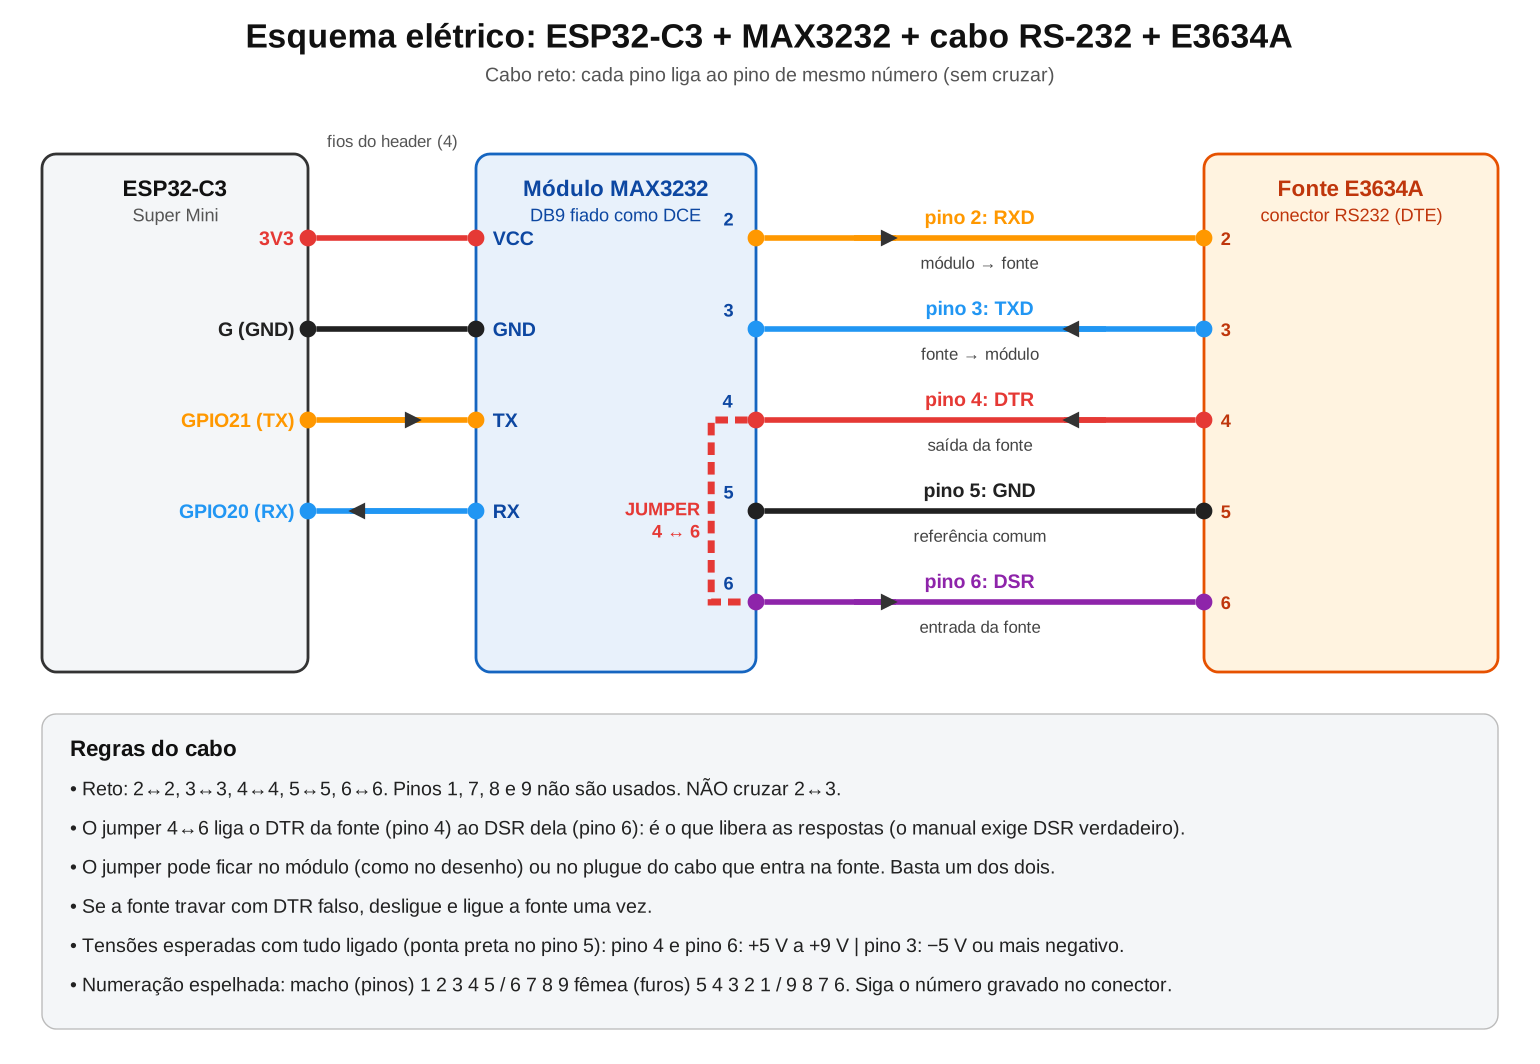
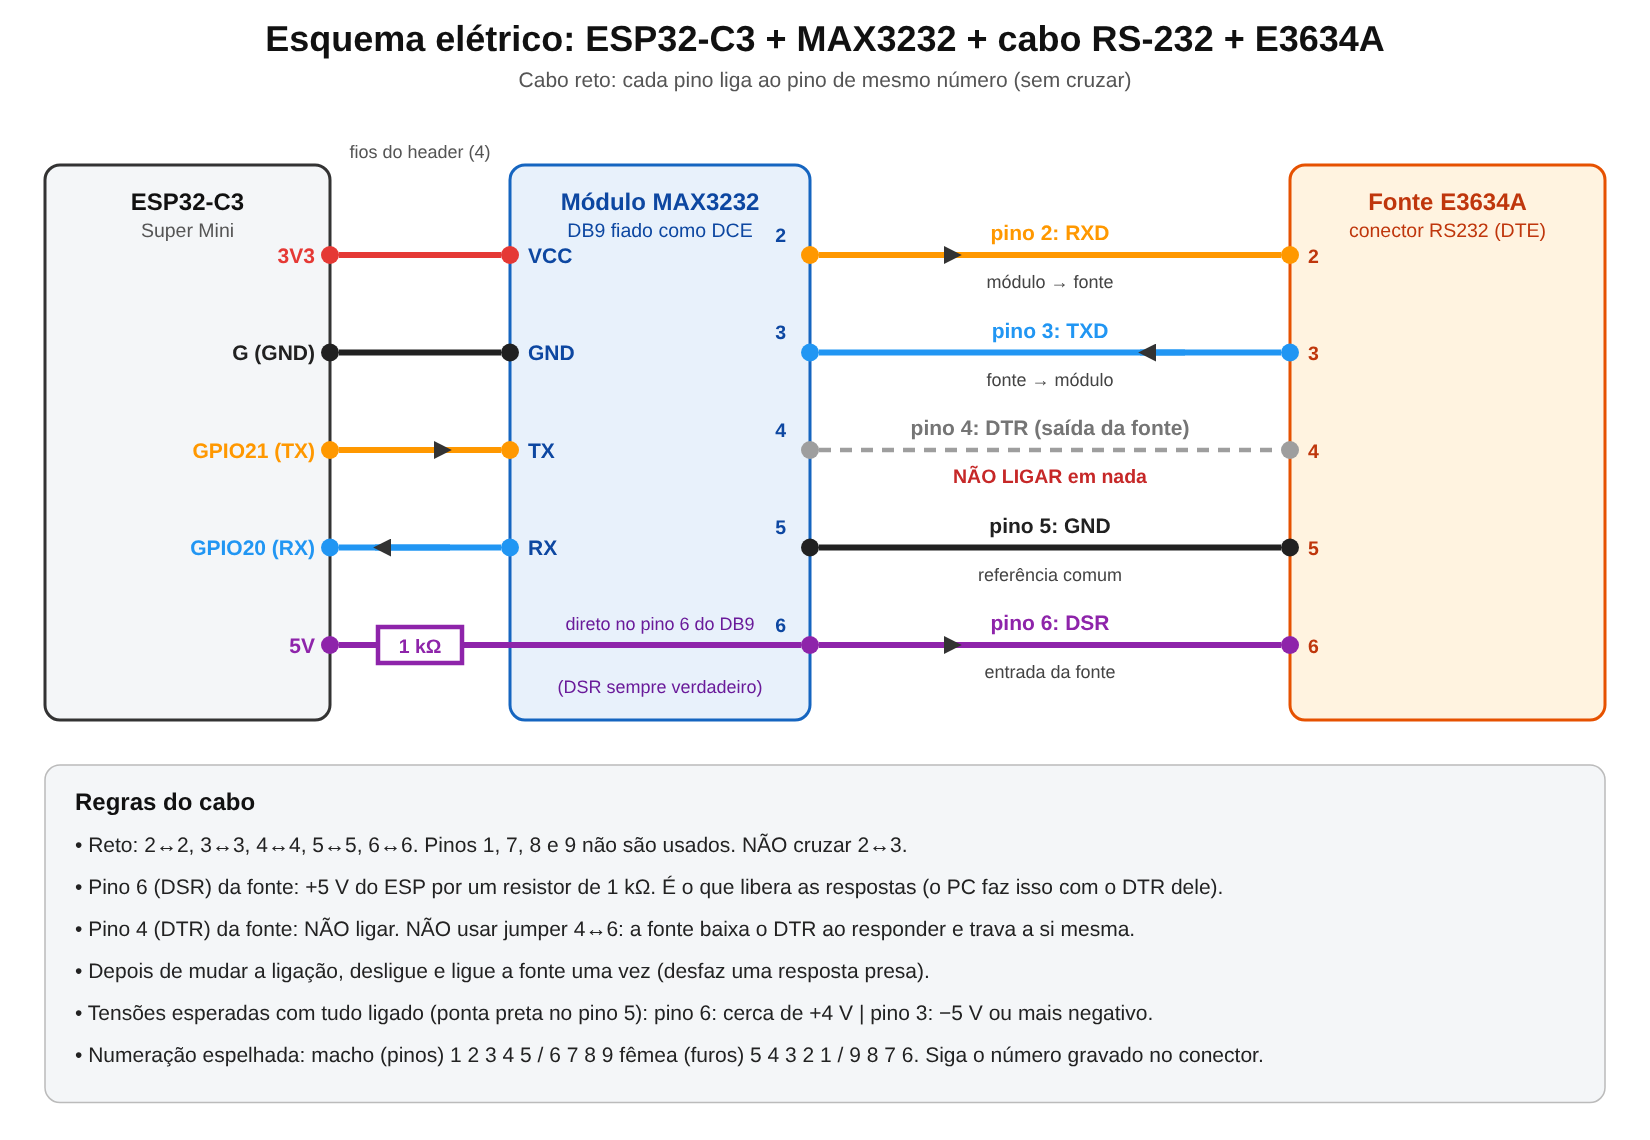
Firmware 1.1.5: remove o jumper 4-6 (trava a fonte ao responder); DSR em +5 V por 1 kOhm
O manual da E363x diz que a fonte poe o DTR em falso quando tem uma resposta
para enviar. Com o jumper 4-6 o DSR cai junto, a saida fica suspensa e cada
query trava: comandos chegam (RMT) e nenhuma resposta volta. O PC nao tem o
problema porque o DSR da fonte vem do DTR do PC.

- esquema e docs: pino 4 solto, pino 6 em +5 V por 1 kOhm
- sessao do Lab Test comeca com <Ctrl-C> para descartar resposta presa
- bytes invalidos na resposta viram LinkError (antes derrubavam o main)

Claude-Session: https://claude.ai/code/session_016zELctfycLz5BDQARTHrR9

diff --git a/firmware/e3634a.py b/firmware/e3634a.py
@@ -4,10 +4,11 @@
 #
 # Comunicacao (conforme o manual da familia E363x):
 #   - a fonte e DTE e usa handshake DTR/DSR (hardware): ela so transmite com o
-#     DSR (pino 6) verdadeiro; para desativar, ligar o DSR a nivel TRUE (jumper
-#     4-6 no DB9). XON/XOFF nao faz parte do protocolo (suporte opcional aqui)
-#   - a fonte segura o DTR em FALSO enquanto a saida esta suspensa; o travamento
-#     (deadlock) se desfaz enviando <Ctrl-C> (0x03), que descarta a saida pendente
+#     DSR (pino 6) verdadeiro. Para desativar: DTR (pino 4) desligado e DSR em
+#     nivel TRUE (+5 V por 1 kOhm). NAO usar jumper 4-6: ao ter uma resposta para
+#     mandar a fonte poe o DTR em FALSO; com o jumper o DSR cai junto e ela trava
+#   - o travamento (deadlock) se desfaz com <Ctrl-C> (0x03), que descarta a
+#     saida pendente; por isso toda sessao comeca com <Ctrl-C>
 #   - por RS-232 e preciso mandar SYST:REM antes dos demais comandos
 #   - escrita termina em "\r\n"; leitura aceita "\n" ou "\r"
 #   - sessao: SYST:REM, *CLS, esvazia SYST:ERR? (max. 20), *IDN?
@@ -142,7 +143,10 @@ class E3634A:
                     break
             if i >= 0:
                 line, self._rx = self._rx[:i], self._rx[i + 1:]
-                s = line.decode().strip(" \x00")
+                try:
+                    s = line.decode().strip(" \x00")
+                except UnicodeError:           # lixo (baud/paridade errados)
+                    raise LinkError("rx invalido " + repr(line[:16]))
                 if not s:                      # sobra do \r\n: ignorar
                     continue
                 self._dbg("<<", s)
@@ -213,7 +217,8 @@ class E3634A:
         sleep_ms(300)                       # porta/fonte estabilizam
         if labtest:
             # sequencia do Lab Test (validada na fonte real): *CLS, esvazia SYST:ERR?,
-            # *IDN?; so depois SYST:REM. Sem <Ctrl-C> e sem SYST:REM antes do *IDN?.
+            # *IDN?; so depois SYST:REM. Antes, <Ctrl-C> descarta resposta presa.
+            self.device_clear()
             self.write("*CLS", check=False)
             self.errors(1200)
             self.idn = self.query("*IDN?", 1200)

diff --git a/tests/test_firmware.py b/tests/test_firmware.py
@@ -96,7 +96,7 @@ class ProtocolTest(unittest.TestCase):
         psu.connect()
         self.assertEqual(sim.log[:4], ["SYST:REM", "*CLS", "SYST:ERR?", "*IDN?"])
 
-    def test_labtest_sequence_has_no_ctrl_c_and_remote_last(self):
+    def test_labtest_sequence_ctrl_c_first_and_remote_last(self):
         sim = SimE3634A()
         raw = []
         orig = sim.write
@@ -104,7 +104,7 @@ class ProtocolTest(unittest.TestCase):
         psu = E3634A(sim, timeout_ms=200)
         self.assertIn("E3634A", psu.connect(labtest=True))
         self.assertEqual(sim.log[:4], ["*CLS", "SYST:ERR?", "*IDN?", "SYST:REM"])
-        self.assertNotIn(b"\x03", b"".join(raw))
+        self.assertEqual(raw[0], b"\x03")            # descarta resposta presa
         self.assertTrue(sim.remote)
 
     def test_activity_callback_tx_and_rx(self):

diff --git a/firmware/config.py b/firmware/config.py
@@ -12,7 +12,8 @@ STOP = 1              # 1 stop bit (a fonte aceita; o diag() testa 2 tambem)
 XONXOFF = True        # igual ao Lab Test (validado na fonte real); inofensivo se a fonte nao usa
 
 # Handshake DTR/DSR: a fonte so transmite com o DSR (pino 6) verdadeiro.
-# Se estes pinos forem None: faca o jumper pino 4 <-> pino 6 no DB9 da fonte (docs/HARDWARE.md)
+# Se estes pinos forem None: pino 6 (DSR) da fonte em +5 V por 1 kOhm e pino 4 (DTR) solto.
+# NAO use jumper 4-6: a fonte trava ao responder (docs/HARDWARE.md)
 DTR_IN_PIN = None     # GPIO que le o DTR da fonte (R2OUT) - fonte pronta p/ receber
 DSR_OUT_PIN = None    # GPIO que aciona o DSR da fonte (T2IN) - ESP pronto p/ receber
 

diff --git a/firmware/selftest.py b/firmware/selftest.py
@@ -118,8 +118,8 @@ def probe(bauds=(9600, 19200, 4800, 2400, 1200), stops=(1, 2)):
                     print("\nACHOU: ajuste config.py -> UART_TX=%d UART_RX=%d BAUD=%d STOP=%d"
                           % (tx, rx, baud, stop))
                     return tx, rx, baud, stop
-    print("\nSem resposta. Verifique: jumper 4-6 na fonte, cabo null-modem "
-          "(2<->3 cruzado), e se a fonte esta em RS-232 (nao HPIB).")
+    print("\nSem resposta. Verifique: pino 6 (DSR) em +5 V por 1 kOhm, pino 4 solto (sem "
+          "jumper 4-6), fonte religada e em RS-232 (nao HPIB).")
     return None
 
 

diff --git a/tools/pc_bench.py b/tools/pc_bench.py
@@ -71,7 +71,7 @@ def main():
         print("Conectado:", psu.connect())
     except LinkError as e:
         print("Sem resposta da fonte (%s). Verifique baud, TX/RX cruzado, "
-              "GND e jumper DTR-DSR (pinos 4-6)." % e)
+              "GND e o DSR (pino 6) verdadeiro." % e)
         return 1
 
     while True:

diff --git a/firmware/bridge.py b/firmware/bridge.py
@@ -11,7 +11,7 @@ except ImportError:
     from e3634a import ticks_ms, ticks_diff
 
 
-FW_VERSION = "1.1.4"   # sobe a cada mudanca de firmware; aparece no app
+FW_VERSION = "1.1.5"   # sobe a cada mudanca de firmware; aparece no app
 
 
 class CmdError(Exception):

diff --git a/docs/HARDWARE.md b/docs/HARDWARE.md
@@ -19,8 +19,8 @@
   superior (lado oposto ao 5V); `3V3`, `G` e `5V` ficam juntos junto ao USB-C.
 - **Módulo RS-232 azul** (U1 de 16 pinos, capacitores C1–C5, LED D1, DB9 "9P"):
   header de 4 pinos **GND, TX, RX, VCC** — só o canal 1 (T1/R1). Não existe
-  DTR/DSR no módulo, então `DTR_IN_PIN`/`DSR_OUT_PIN` ficam `None` e o
-  **jumper 4↔6 vai no conector do lado da fonte**.
+  DTR/DSR no módulo, então `DTR_IN_PIN`/`DSR_OUT_PIN` ficam `None`, o
+  **pino 6 (DSR) recebe +5 V por 1 kΩ** e o **pino 4 (DTR) fica solto**.
 
 | Módulo | Super Mini |
 |---|---|
@@ -28,6 +28,7 @@
 | GND | G |
 | TX | GPIO21 |
 | RX | GPIO20 |
+| pino 6 do DB9 (DSR) | **5V por resistor de 1 kΩ** |
 
 A rotulagem TX/RX desses módulos varia. Não adivinhe: rode o autoteste
 (`selftest.loopback()`, abaixo) e ele diz se precisa inverter os dois fios.
@@ -42,8 +43,7 @@ A rotulagem TX/RX desses módulos varia. Não adivinhe: rode o autoteste
    entre as duas pontas o cabo precisa ser **null-modem (cruzado)**: 2↔3 e 5↔5.
    Um cabo reto/extensor não funciona. Se os gêneros dos conectores não
    encaixam, use um adaptador de gênero ou faça um cabo curto.
-3. **Jumper 4↔6 no conector da fonte** (ver abaixo). O módulo só leva os pinos
-   2, 3 e 5.
+3. **Pino 6 em +5 V por 1 kΩ, pino 4 solto, sem jumper 4↔6** (ver abaixo).
 
 ### Diagnóstico automático da serial
 
@@ -78,11 +78,12 @@ significa que nada chega ao pino (DSR, fio do pino 3, módulo, fonte travada).
    selftest.loopback()
    ```
    Deve imprimir `OK` para um dos sentidos e dizer se há fios invertidos.
-2. Ligue ao cabo null-modem com o jumper 4–6 na ponta da fonte, fonte em
+2. Ligue o cabo com o pino 6 em +5 V (1 kΩ) e o pino 4 solto, fonte em
    `RS-232 / 9600 / NONE 8 BITS`, e rode `selftest.probe()`. Ele varre
    baud/stop-bits/sentido até a fonte responder ao `*IDN?` e imprime os valores
    para o `config.py`.
-3. Só então rode o `main.py` e use o app.
+3. Ou rode `selftest.labtest()`, que repete a abertura do Lab Test.
+4. Só então rode o `main.py` e use o app.
 
 ## Configuração RS-232 na fonte (painel frontal)
 
@@ -104,9 +105,9 @@ A fonte salva isso em memória não volátil.
  │ GPIO21 (TX) ─┼────────────┤ T1IN   T1OUT ─┼────────────┤ 2  RXD  (entrada da fonte)│
  │ GPIO20 (RX) ─┼────────────┤ R1OUT  R1IN  ─┼────────────┤ 3  TXD  (saída da fonte)  │
  │              │            └───────────────┘            │                           │
- │ GPIO8 = LED  │                                ┌────────┤ 4  DTR  (saída)           │
- └──────────────┘                     jumper ─── │        │                           │
-                                                 └────────┤ 6  DSR  (entrada)         │
+ │ GPIO8 = LED  │                             (solto) ┤ 4  DTR  (saída)           │
+ │ 5V ──[1 kΩ]──┼─────────────────────────────────────────┤ 6  DSR  (entrada)         │
+ └──────────────┘                                         │                           │
                                                           └───────────────────────────┘
 ```
 
@@ -127,22 +128,32 @@ fabricante neste ambiente**, então confira na seção *RS-232 Interface* do gui
   Even 7 bits;
 - o cabo que acompanha a fonte é 9 pinos fêmea ↔ fêmea (cruzado, para ligar a um PC).
 
+O manual também diz quando a fonte põe o **DTR em falso**:
+
+- quando o buffer de entrada enche (≈100 caracteres);
+- **quando ela tem uma resposta para mandar** (processou uma query e recebeu o `<new line>`);
+  ela volta a pôr o DTR em verdadeiro só depois de enviar a resposta.
+
 Consequências no projeto:
 
 1. **Sem DSR verdadeiro a fonte aceita comandos (o display mostra `RMT`) mas nunca responde.**
    É o sintoma que vimos (`timeout rx=vazio`).
-2. O módulo MAX3232 de 4 pinos não tem DTR/DSR, então o DSR precisa ser ligado ao TRUE da
-   própria fonte: **jumper do pino 4 ao pino 6**, no conector do lado da fonte.
-3. Com esse jumper, se a fonte já estiver travada (DTR falso), o DSR fica falso também.
-   Por isso o firmware envia **`<Ctrl-C>` no início de cada sessão** (`device_clear()`); e,
-   depois de pôr o jumper, **desligue e ligue a fonte** uma vez.
-4. O firmware abre a sessão com `<Ctrl-C>`, `SYST:REM`, `*CLS`, esvazia `SYST:ERR?` (a fila vazia
-   evita o beep) e só então `*IDN?`; comandos terminam em `\r\n`.
-5. XON/XOFF não faz parte do protocolo da fonte (`XONXOFF = False`).
-6. O cabo precisa levar os pinos 2, 3, 5 **e 4 e 6**. Cabo de 3 fios não serve para o jumper no
-   módulo.
+2. **O jumper 4↔6 causa exatamente isso.** Com ele, o DSR copia o DTR da própria fonte. Ao ter
+   uma resposta pronta ela põe o DTR em falso, o DSR cai junto, a saída fica suspensa e o DTR
+   continua falso: travamento a cada query. Comandos sem resposta (`SYST:REM`) funcionam; queries
+   não. Os comandos seguintes ainda geram erro (`-410 Query INTERRUPTED`) e a fonte apita.
+   No PC isso não acontece porque o DSR da fonte vem do DTR do PC, que fica sempre verdadeiro.
+3. Ligação correta com o módulo de 4 pinos: **pino 4 solto** e **pino 6 em +5 V por 1 kΩ**
+   (do pad `5V` do ESP). A entrada DSR tem ~5 kΩ, então o pino 6 fica em cerca de +4 V, nível
+   verdadeiro. 3,3 V fica no limite do receptor RS-232; use os 5 V.
+4. O firmware abre a sessão com `<Ctrl-C>` (descarta uma resposta presa), `*CLS`, esvazia
+   `SYST:ERR?`, `*IDN?` e só então `SYST:REM`, como o Lab Test; comandos terminam em `\r\n`.
+5. O manual sugere baud menor (300/600/1200) com o handshake desligado, para não estourar o
+   buffer de entrada. Os comandos do firmware são curtos e cada query espera a resposta, então
+   9600 deve servir; se aparecer `-363` (overrun) na fila de erros, use 1200 na fonte e no `config.py`.
+6. Depois de mudar a ligação, **desligue e ligue a fonte** uma vez.
 7. Para conferir: com a fonte ligada e o cabo conectado, meça entre o pino 5 e o pino 6 no DB9 da
-   fonte. **+5 V a +9 V** = DSR verdadeiro.
+   fonte: **cerca de +4 V** = DSR verdadeiro.
 
 ### Opcional: handshake completo com o 2º canal do MAX3232
 
@@ -169,8 +180,8 @@ fabricante. A E3634A é **DTE**. A regra que não falha:
    negativa no mesmo pino, são duas saídas se enfrentando → inverta 2↔3.
 
 O mais seguro é ignorar o DB9 do módulo e montar um cabo curto com um
-**DB9 fêmea de solda**: pinos 2, 3, 5 até o módulo + jumper 4–6 no próprio
-conector.
+**DB9 fêmea de solda**: pinos 2, 3, 5 até o módulo, pino 6 em +5 V por 1 kΩ e
+pino 4 solto.
 
 ## Alimentação
 

diff --git a/README.md b/README.md
@@ -33,7 +33,7 @@ por **Bluetooth LE**, usando um **ESP32-C3 Super Mini** (MicroPython) como ponte
 | [`android/`](android) | App Android (Kotlin + Jetpack Compose, minSdk 26) |
 | [`tests/`](tests) | Simulador da E3634A e testes do firmware (rodam no PC) |
 | [`tools/pc_bench.py`](tools/pc_bench.py) | Terminal SCPI no PC via USB-RS232 (valida cabo/config sem ESP32) |
-| [`docs/HARDWARE.md`](docs/HARDWARE.md) | Ligações, jumper DTR/DSR, config da fonte |
+| [`docs/HARDWARE.md`](docs/HARDWARE.md) | Ligações, DSR, config da fonte |
 | [`docs/PROTOCOLO.md`](docs/PROTOCOLO.md) | Protocolo JSON BLE completo |
 
 ## 1. Hardware
@@ -43,7 +43,7 @@ Veja **[docs/HARDWARE.md](docs/HARDWARE.md)**. Resumo:
 - GPIO21 (TX) → MAX3232 T1IN → pino **2** da fonte
 - GPIO20 (RX) ← MAX3232 R1OUT ← pino **3** da fonte
 - GND ↔ pino **5**; MAX3232 alimentado em **3,3 V**
-- **Jumper pino 4 ↔ pino 6** (necessário: a fonte usa handshake DTR/DSR e só responde com o DSR verdadeiro — ver [docs/HARDWARE.md](docs/HARDWARE.md))
+- **Pino 6 (DSR) em +5 V por 1 kΩ** e **pino 4 (DTR) solto**: a fonte só responde com o DSR verdadeiro. **Não** use jumper 4↔6, ela trava ao responder (ver [docs/HARDWARE.md](docs/HARDWARE.md) e [docs/esquema_cabo_rs232.png](docs/esquema_cabo_rs232.png))
 - Fonte em `RS-232`, `9600 BAUD`, `NONE 8 BITS` (menu I/O Config)
 
 ## 2. Firmware (ESP32-C3 Super Mini)
@@ -92,7 +92,7 @@ python3 tools/pc_bench.py --port /dev/ttyUSB0  # direto na fonte via USB-RS232
 
 | Sintoma | Causa provável |
 |---|---|
-| App acha o ESP, LED pisca rápido, "fonte não responde" | Falta jumper 4–6, TX/RX invertidos, baud/paridade diferentes |
+| App acha o ESP, LED só com flashes curtos, "fonte não responde" | DSR (pino 6) não está em +5 V, jumper 4–6 presente, TX/RX invertidos, baud/paridade diferentes |
 | Display da fonte mostra `RMT` mas sem leitura | Mesmo caso acima: comandos chegam, respostas não (DSR) |
 | Erros `-222 Data out of range` | Valor acima do limite da faixa atual |
 | `resposta composta invalida` | Use `COMPOUND_QUERY = False` |
